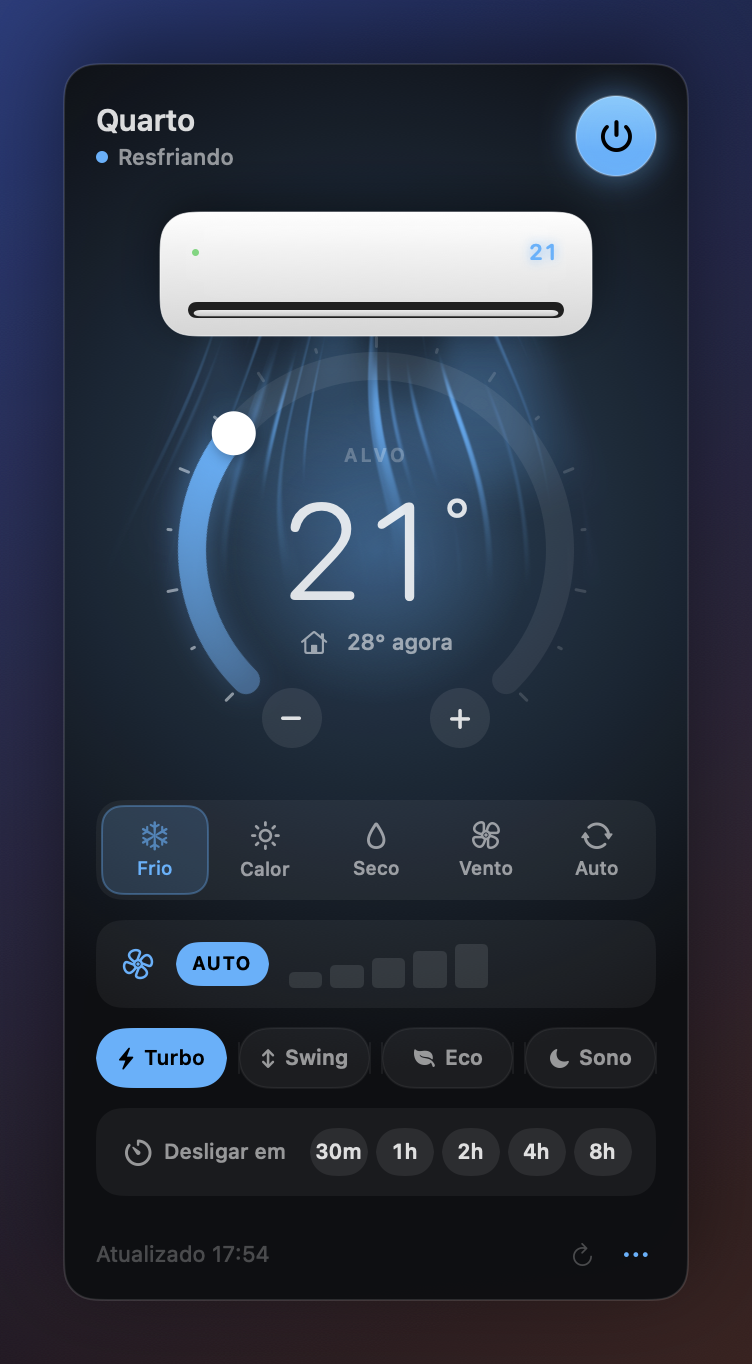
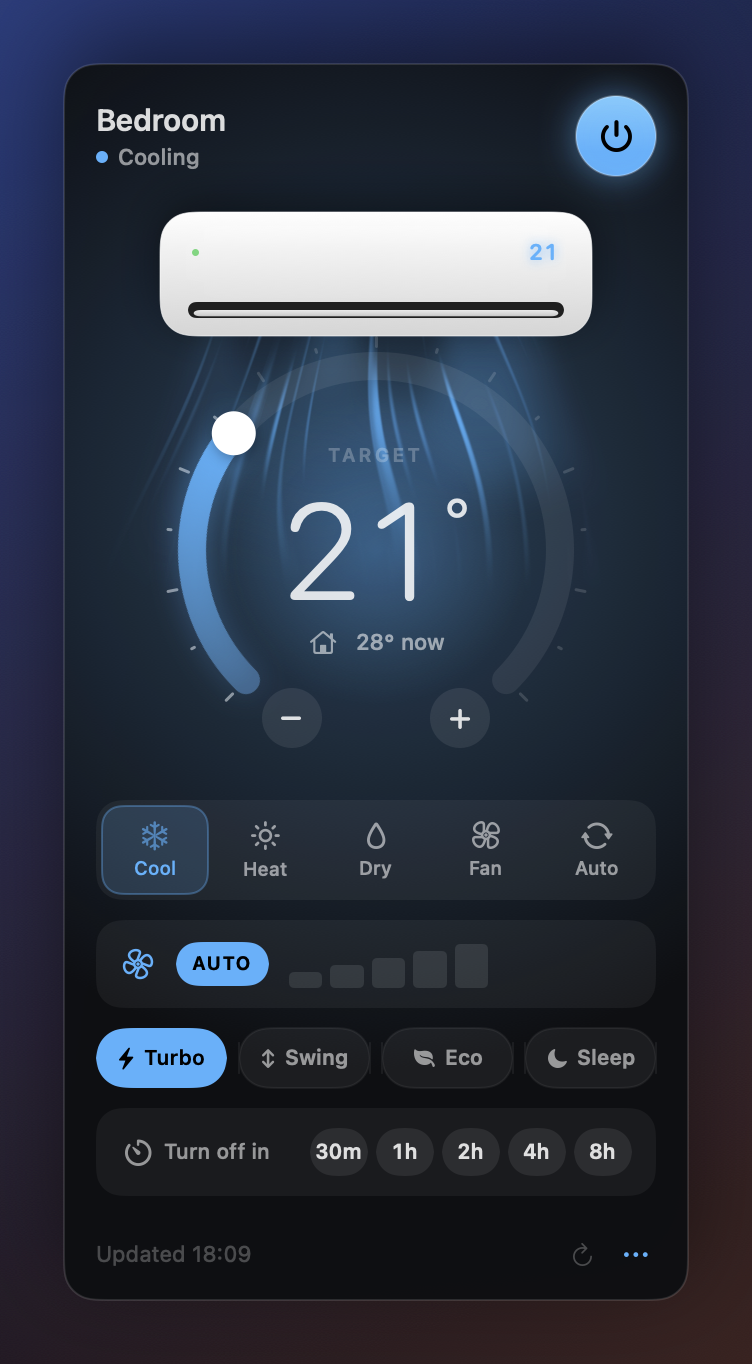
Add English README with Portuguese translation
README.md is now in English with a language switch to README.pt-BR.md.
The screenshot generator renders both languages (docs/ and docs/pt-BR/).

diff --git a/README.md b/README.md
@@ -2,37 +2,40 @@
 
 # Hisense Menubar
 
-**Controle seu ar-condicionado Hisense (ConnectLife) direto da barra de menus do Mac.**
+**English** · [Português](README.pt-BR.md)
 
-Sem procurar o controle remoto, sem pegar o celular.
+**Control your Hisense (ConnectLife) air conditioner from the Mac menu bar.**
+
+No more hunting for the remote or reaching for your phone.
 
 ![macOS 14+](https://img.shields.io/badge/macOS-14%2B-black?logo=apple)
 ![Swift](https://img.shields.io/badge/Swift-5.10-F05138?logo=swift&logoColor=white)
 ![SwiftUI + Metal](https://img.shields.io/badge/SwiftUI-Metal-0A84FF)
 ![License](https://img.shields.io/badge/license-GPL--3.0-blue)
 
-<img src="docs/hero.png" alt="Painel em modo frio, calor com timer e desumidificar" width="100%">
+<img src="docs/hero.png" alt="Panel in cool mode, heat mode with an active timer, and dry mode" width="100%">
 
 </div>
 
-## O que faz
+## Features
 
-- **Temperatura na barra de menus**: `23°` quando está ligado, `off` quando está desligado e um ícone de timer quando há desligamento agendado.
-- **Dial de termostato**: arraste o anel, use os botões `−`/`+` ou as setas `↑`/`↓`. O trackpad vibra a cada grau.
-- **Split animado**: a aleta abre ao ligar e o fluxo de ar (um shader Metal) desce até o dial, com a cor do modo e a força da ventilação.
-- **Modos**: Frio, Calor, Seco, Vento e Auto, cada um com sua cor. O ícone do modo ativo "respira".
-- **Ventilação**: medidor de barras com Auto e 5 velocidades. O ícone do ventilador gira na velocidade escolhida.
-- **Funções extras**: Turbo, Swing, Eco e Sono. Só aparecem as que o seu modelo informa ter.
-- **Timer de desligamento**: 30m, 1h, 2h, 4h ou 8h, com contagem regressiva, `+30m` para adiar e notificação ao desligar.
-- **Leve e nativo**: app SwiftUI de ~1 MB que não aparece no Dock e guarda a senha só no Keychain.
+- **Temperature in the menu bar**: shows `23°` when the AC is on, `off` when it's off, and a timer icon while a shutdown is scheduled.
+- **Thermostat dial**: drag the ring, click `−`/`+` or press `↑`/`↓`. The trackpad gives a haptic tick on every degree.
+- **Animated split unit**: the louver opens when the AC turns on, and a Metal shader draws the airflow down into the dial in the mode's color, as strong as the fan setting.
+- **Modes**: Cool, Heat, Dry, Fan and Auto, each with its own color. The active mode's icon "breathes".
+- **Fan speed**: a bar meter with Auto plus 5 speeds. The fan icon spins at the selected speed.
+- **Extras**: Turbo, Swing, Eco and Sleep. Each one only shows up if your unit reports it.
+- **Auto-off timer**: 30m, 1h, 2h, 4h or 8h, with a countdown, `+30m` to postpone and a notification when it fires.
+- **Light and native**: a ~1 MB SwiftUI app with no Dock icon. Your password is stored only in the Keychain.
+- **English and Portuguese**: the app follows your system language.
 
-| Desligado | Timer ativo |
+| Off | Timer running |
 |:---:|:---:|
 | <img src="docs/off.png" width="340"> | <img src="docs/heat.png" width="340"> |
 
-## Instalação
+## Install
 
-Requisitos: macOS 14 ou mais novo e as Command Line Tools do Xcode (`xcode-select --install`). O Xcode completo não é necessário.
+Requirements: macOS 14 or later and the Xcode Command Line Tools (`xcode-select --install`). You don't need the full Xcode.
 
 ```bash
 git clone https://github.com/LuisMFG/hisense-menubar.git
@@ -42,75 +45,76 @@ cp -R "build/Ar Condicionado.app" /Applications/
 open "/Applications/Ar Condicionado.app"
 ```
 
-Clique no ícone do ar-condicionado na barra de menus e entre com o **mesmo e-mail e senha do app ConnectLife**.
+Click the air conditioner icon in the menu bar and sign in with **the same email and password you use in the ConnectLife app**.
 
-Para abrir junto com o Mac, adicione o app em **Ajustes do Sistema → Geral → Itens de Início**.
+To launch it at login, add the app under **System Settings → General → Login Items**.
 
-### Atalhos (com o painel aberto)
+### Shortcuts (while the panel is open)
 
-| Tecla | Ação |
+| Key | Action |
 |---|---|
-| `Espaço` | Liga/desliga |
+| `Space` | Turn on/off |
 | `↑` / `↓` | +1° / −1° |
-| `⌘R` | Atualizar status |
-| `⌘Q` | Fechar o app |
+| `⌘R` | Refresh status |
+| `⌘Q` | Quit |
 
-## Como funciona
+## How it works
 
-A Hisense não publica uma API. O app conversa com a mesma nuvem que o app oficial ConnectLife usa:
+Hisense doesn't publish an API. The app talks to the same cloud the official ConnectLife app uses:
 
 ```
-Gigya (CDC)          OAuth hijuconn            Gateway clife-eu
+Gigya (CDC)          hijuconn OAuth            clife-eu gateway
 accounts.login  ──▶  /oauth/authorize    ──▶  /clife-svc/pu/get_device_status_list
 accounts.getJWT      /oauth/token              /device/pu/property/set
-                                               └─ cada requisição é assinada:
-                                                  sign = RSA_PKCS1(SHA256(params ordenados + sufixo))
+                                               └─ every request is signed:
+                                                  sign = RSA_PKCS1(SHA256(sorted params + suffix))
 ```
 
-O status chega como propriedades (`t_power`, `t_temp`, `t_work_mode`, `t_fan_speed`, `f_temp_in`…). Os comandos mudam essas mesmas propriedades. O painel atualiza na hora (de forma otimista) e confirma com a nuvem a cada 60 s.
+The unit's state comes back as properties (`t_power`, `t_temp`, `t_work_mode`, `t_fan_speed`, `f_temp_in`…), and commands set those same properties. The panel updates right away (optimistically) and syncs with the cloud every 60 s.
 
-## Engenharia reversa com REA
+## Reverse engineering with REA
 
-O protocolo foi verificado contra o app oficial **ConnectLife 2.17.2 (Android)** usando o [REA](https://github.com/morluto/rea), um MCP/CLI de engenharia reversa para agentes:
+I checked the protocol against the official **ConnectLife 2.17.2 (Android)** app with [REA](https://github.com/morluto/rea), a reverse-engineering MCP/CLI for coding agents:
 
-1. `rea extract-artifact`: extrai o `.xapk` (APK base e o split `armeabi-v7a`).
-2. `rea identify-flutter-build`: o app é **Flutter**, então a lógica fica em Dart AOT (`libapp.so`).
-3. `rea inspect-dart-aot`: lê o pool de strings do snapshot Dart (módulos `air_conditioner`, `gigya_flutter_plugin`, `RSASigner`…).
-4. Varredura do `libapp.so` extraído para confirmar endpoints, campos da assinatura e nomes de propriedades.
+1. `rea extract-artifact` unpacks the `.xapk` into the base APK and the `armeabi-v7a` split.
+2. `rea identify-flutter-build` shows the app is **Flutter**, so the logic lives in Dart AOT code (`libapp.so`).
+3. `rea inspect-dart-aot` reads the Dart snapshot's string pool. It contains the `air_conditioner` and `gigya_flutter_plugin` modules, a `RSASigner` class, and more.
+4. A full scan of the extracted `libapp.so` confirms the endpoints, the signature fields and the property names.
 
-O que foi confirmado, o que ficou diferente (o `appId` do app oficial, por exemplo) e o que não deu para extrair (`appSecret` e chave RSA, que estão ofuscados) está em [**REA-FINDINGS.md**](REA-FINDINGS.md).
+[**REA-FINDINGS.md**](REA-FINDINGS.md) lists what was confirmed, what differs from the reference library (the official `appId`, for example) and what couldn't be extracted (the `appSecret` and RSA key are obfuscated). That file is written in Portuguese.
 
-## Estrutura
+## Project layout
 
 ```
 Sources/ArCondicionado/
-├── ConnectLifeAPI.swift   # login Gigya → OAuth → gateway assinado (SHA256 + RSA)
-├── ACStore.swift          # estado, comandos otimistas, timer, Keychain
-├── Views.swift            # painel: dial, modos, ventilação, chips, timer
-├── Effects.swift          # vidro, shader Metal do fluxo de ar, split, háptico
+├── ConnectLifeAPI.swift   # Gigya login → OAuth → signed gateway (SHA256 + RSA)
+├── ACStore.swift          # state, optimistic commands, timer, Keychain
+├── Views.swift            # panel: dial, modes, fan speed, chips, timer
+├── Effects.swift          # glass, Metal airflow shader, split unit, haptics
 └── App.swift              # MenuBarExtra
-Snapshot/                  # gera as imagens do README com dados fictícios
-build-app.sh               # compila e empacota o .app
-snapshot.sh                # ./snapshot.sh → docs/*.png
+Resources/*.lproj/         # translations (en, pt-BR)
+Snapshot/                  # renders the README images from mock data
+build-app.sh               # builds and packages the .app
+snapshot.sh                # ./snapshot.sh → docs/*.png (en) and docs/pt-BR/*.png
 ```
 
-O shader Metal é compilado quando o app abre (`makeLibrary(source:)`), por isso o projeto compila só com as Command Line Tools.
+The Metal shader is compiled when the app launches (`makeLibrary(source:)`), so the project builds with just the Command Line Tools.
 
-## Limitações
+## Limitations
 
-- **Timer local**: o timer roda no Mac. Enquanto ele está ativo, o Mac não dorme por inatividade, mas se a tampa for fechada o ar só desliga quando o Mac acordar. O app oficial agenda pela nuvem (`/energy-service/api/device/saveScheduler`), mas o formato desse payload ainda não foi mapeado.
-- **Testado** com um split Hisense numa conta do Brasil. Outros modelos podem expor propriedades diferentes. As funções extras só aparecem quando o aparelho as informa.
-- **Não-oficial**: a nuvem pode mudar a qualquer momento e quebrar o app.
+- **The timer runs on the Mac.** While it's armed, the Mac won't idle-sleep. If you close the lid, though, the AC only turns off once the Mac wakes up again. The official app schedules in the cloud (`/energy-service/api/device/saveScheduler`), but that payload hasn't been mapped yet.
+- **Tested** with one Hisense split unit on a Brazilian account. Other models may expose different properties. The extra functions only appear when your unit reports them.
+- **Unofficial.** The cloud API can change at any time and break the app.
 
-## Créditos
+## Credits
 
-- [oyvindwe/connectlife](https://github.com/oyvindwe/connectlife), cliente Python open source da nuvem ConnectLife. As credenciais de cliente e o algoritmo de assinatura deste projeto seguem a implementação dele.
-- [morluto/rea](https://github.com/morluto/rea), usado para verificar o protocolo no app oficial.
+- [oyvindwe/connectlife](https://github.com/oyvindwe/connectlife), an open-source Python client for the ConnectLife cloud. This project uses the same client credentials and signing algorithm.
+- [morluto/rea](https://github.com/morluto/rea), used to verify the protocol against the official app.
 
-## Aviso
+## Disclaimer
 
-Projeto pessoal, **não afiliado** à Hisense nem à ConnectLife. Use por sua conta e risco. A senha da ConnectLife fica só no Keychain do seu Mac e é enviada apenas aos servidores de login da própria ConnectLife (Gigya).
+This is a personal project and is **not affiliated** with Hisense or ConnectLife. Use it at your own risk. Your ConnectLife password stays in your Mac's Keychain and is only sent to ConnectLife's own sign-in servers (Gigya).
 
-## Licença
+## License
 
 [GPL-3.0](LICENSE)

diff --git a/README.pt-BR.md b/README.pt-BR.md
@@ -1,0 +1,120 @@
+<div align="center">
+
+# Hisense Menubar
+
+[English](README.md) · **Português**
+
+**Controle seu ar-condicionado Hisense (ConnectLife) direto da barra de menus do Mac.**
+
+Sem procurar o controle remoto, sem pegar o celular.
+
+![macOS 14+](https://img.shields.io/badge/macOS-14%2B-black?logo=apple)
+![Swift](https://img.shields.io/badge/Swift-5.10-F05138?logo=swift&logoColor=white)
+![SwiftUI + Metal](https://img.shields.io/badge/SwiftUI-Metal-0A84FF)
+![License](https://img.shields.io/badge/license-GPL--3.0-blue)
+
+<img src="docs/pt-BR/hero.png" alt="Painel em modo frio, calor com timer e desumidificar" width="100%">
+
+</div>
+
+## O que faz
+
+- **Temperatura na barra de menus**: `23°` quando está ligado, `off` quando está desligado e um ícone de timer quando há desligamento agendado.
+- **Dial de termostato**: arraste o anel, use os botões `−`/`+` ou as setas `↑`/`↓`. O trackpad vibra a cada grau.
+- **Split animado**: a aleta abre ao ligar e o fluxo de ar (um shader Metal) desce até o dial, com a cor do modo e a força da ventilação.
+- **Modos**: Frio, Calor, Seco, Vento e Auto, cada um com sua cor. O ícone do modo ativo "respira".
+- **Ventilação**: medidor de barras com Auto e 5 velocidades. O ícone do ventilador gira na velocidade escolhida.
+- **Funções extras**: Turbo, Swing, Eco e Sono. Só aparecem as que o seu modelo informa ter.
+- **Timer de desligamento**: 30m, 1h, 2h, 4h ou 8h, com contagem regressiva, `+30m` para adiar e notificação ao desligar.
+- **Leve e nativo**: app SwiftUI de ~1 MB que não aparece no Dock e guarda a senha só no Keychain.
+- **Português e inglês**: o idioma segue o do sistema.
+
+| Desligado | Timer ativo |
+|:---:|:---:|
+| <img src="docs/pt-BR/off.png" width="340"> | <img src="docs/pt-BR/heat.png" width="340"> |
+
+## Instalação
+
+Requisitos: macOS 14 ou mais novo e as Command Line Tools do Xcode (`xcode-select --install`). O Xcode completo não é necessário.
+
+```bash
+git clone https://github.com/LuisMFG/hisense-menubar.git
+cd hisense-menubar
+./build-app.sh
+cp -R "build/Ar Condicionado.app" /Applications/
+open "/Applications/Ar Condicionado.app"
+```
+
+Clique no ícone do ar-condicionado na barra de menus e entre com o **mesmo e-mail e senha do app ConnectLife**.
+
+Para abrir junto com o Mac, adicione o app em **Ajustes do Sistema → Geral → Itens de Início**.
+
+### Atalhos (com o painel aberto)
+
+| Tecla | Ação |
+|---|---|
+| `Espaço` | Liga/desliga |
+| `↑` / `↓` | +1° / −1° |
+| `⌘R` | Atualizar status |
+| `⌘Q` | Fechar o app |
+
+## Como funciona
+
+A Hisense não publica uma API. O app conversa com a mesma nuvem que o app oficial ConnectLife usa:
+
+```
+Gigya (CDC)          OAuth hijuconn            Gateway clife-eu
+accounts.login  ──▶  /oauth/authorize    ──▶  /clife-svc/pu/get_device_status_list
+accounts.getJWT      /oauth/token              /device/pu/property/set
+                                               └─ cada requisição é assinada:
+                                                  sign = RSA_PKCS1(SHA256(params ordenados + sufixo))
+```
+
+O status chega como propriedades (`t_power`, `t_temp`, `t_work_mode`, `t_fan_speed`, `f_temp_in`…). Os comandos mudam essas mesmas propriedades. O painel atualiza na hora (de forma otimista) e confirma com a nuvem a cada 60 s.
+
+## Engenharia reversa com REA
+
+O protocolo foi verificado contra o app oficial **ConnectLife 2.17.2 (Android)** usando o [REA](https://github.com/morluto/rea), um MCP/CLI de engenharia reversa para agentes:
+
+1. `rea extract-artifact`: extrai o `.xapk` (APK base e o split `armeabi-v7a`).
+2. `rea identify-flutter-build`: o app é **Flutter**, então a lógica fica em Dart AOT (`libapp.so`).
+3. `rea inspect-dart-aot`: lê o pool de strings do snapshot Dart (módulos `air_conditioner`, `gigya_flutter_plugin`, `RSASigner`…).
+4. Varredura do `libapp.so` extraído para confirmar endpoints, campos da assinatura e nomes de propriedades.
+
+O que foi confirmado, o que ficou diferente (o `appId` do app oficial, por exemplo) e o que não deu para extrair (`appSecret` e chave RSA, que estão ofuscados) está em [**REA-FINDINGS.md**](REA-FINDINGS.md).
+
+## Estrutura
+
+```
+Sources/ArCondicionado/
+├── ConnectLifeAPI.swift   # login Gigya → OAuth → gateway assinado (SHA256 + RSA)
+├── ACStore.swift          # estado, comandos otimistas, timer, Keychain
+├── Views.swift            # painel: dial, modos, ventilação, chips, timer
+├── Effects.swift          # vidro, shader Metal do fluxo de ar, split, háptico
+└── App.swift              # MenuBarExtra
+Resources/*.lproj/         # traduções (en, pt-BR)
+Snapshot/                  # gera as imagens do README com dados fictícios
+build-app.sh               # compila e empacota o .app
+snapshot.sh                # ./snapshot.sh → docs/*.png (en) e docs/pt-BR/*.png
+```
+
+O shader Metal é compilado quando o app abre (`makeLibrary(source:)`), por isso o projeto compila só com as Command Line Tools.
+
+## Limitações
+
+- **Timer local**: o timer roda no Mac. Enquanto ele está ativo, o Mac não dorme por inatividade, mas se a tampa for fechada o ar só desliga quando o Mac acordar. O app oficial agenda pela nuvem (`/energy-service/api/device/saveScheduler`), mas o formato desse payload ainda não foi mapeado.
+- **Testado** com um split Hisense numa conta do Brasil. Outros modelos podem expor propriedades diferentes. As funções extras só aparecem quando o aparelho as informa.
+- **Não-oficial**: a nuvem pode mudar a qualquer momento e quebrar o app.
+
+## Créditos
+
+- [oyvindwe/connectlife](https://github.com/oyvindwe/connectlife), cliente Python open source da nuvem ConnectLife. As credenciais de cliente e o algoritmo de assinatura deste projeto seguem a implementação dele.
+- [morluto/rea](https://github.com/morluto/rea), usado para verificar o protocolo no app oficial.
+
+## Aviso
+
+Projeto pessoal, **não afiliado** à Hisense nem à ConnectLife. Use por sua conta e risco. A senha da ConnectLife fica só no Keychain do seu Mac e é enviada apenas aos servidores de login da própria ConnectLife (Gigya).
+
+## Licença
+
+[GPL-3.0](LICENSE)
